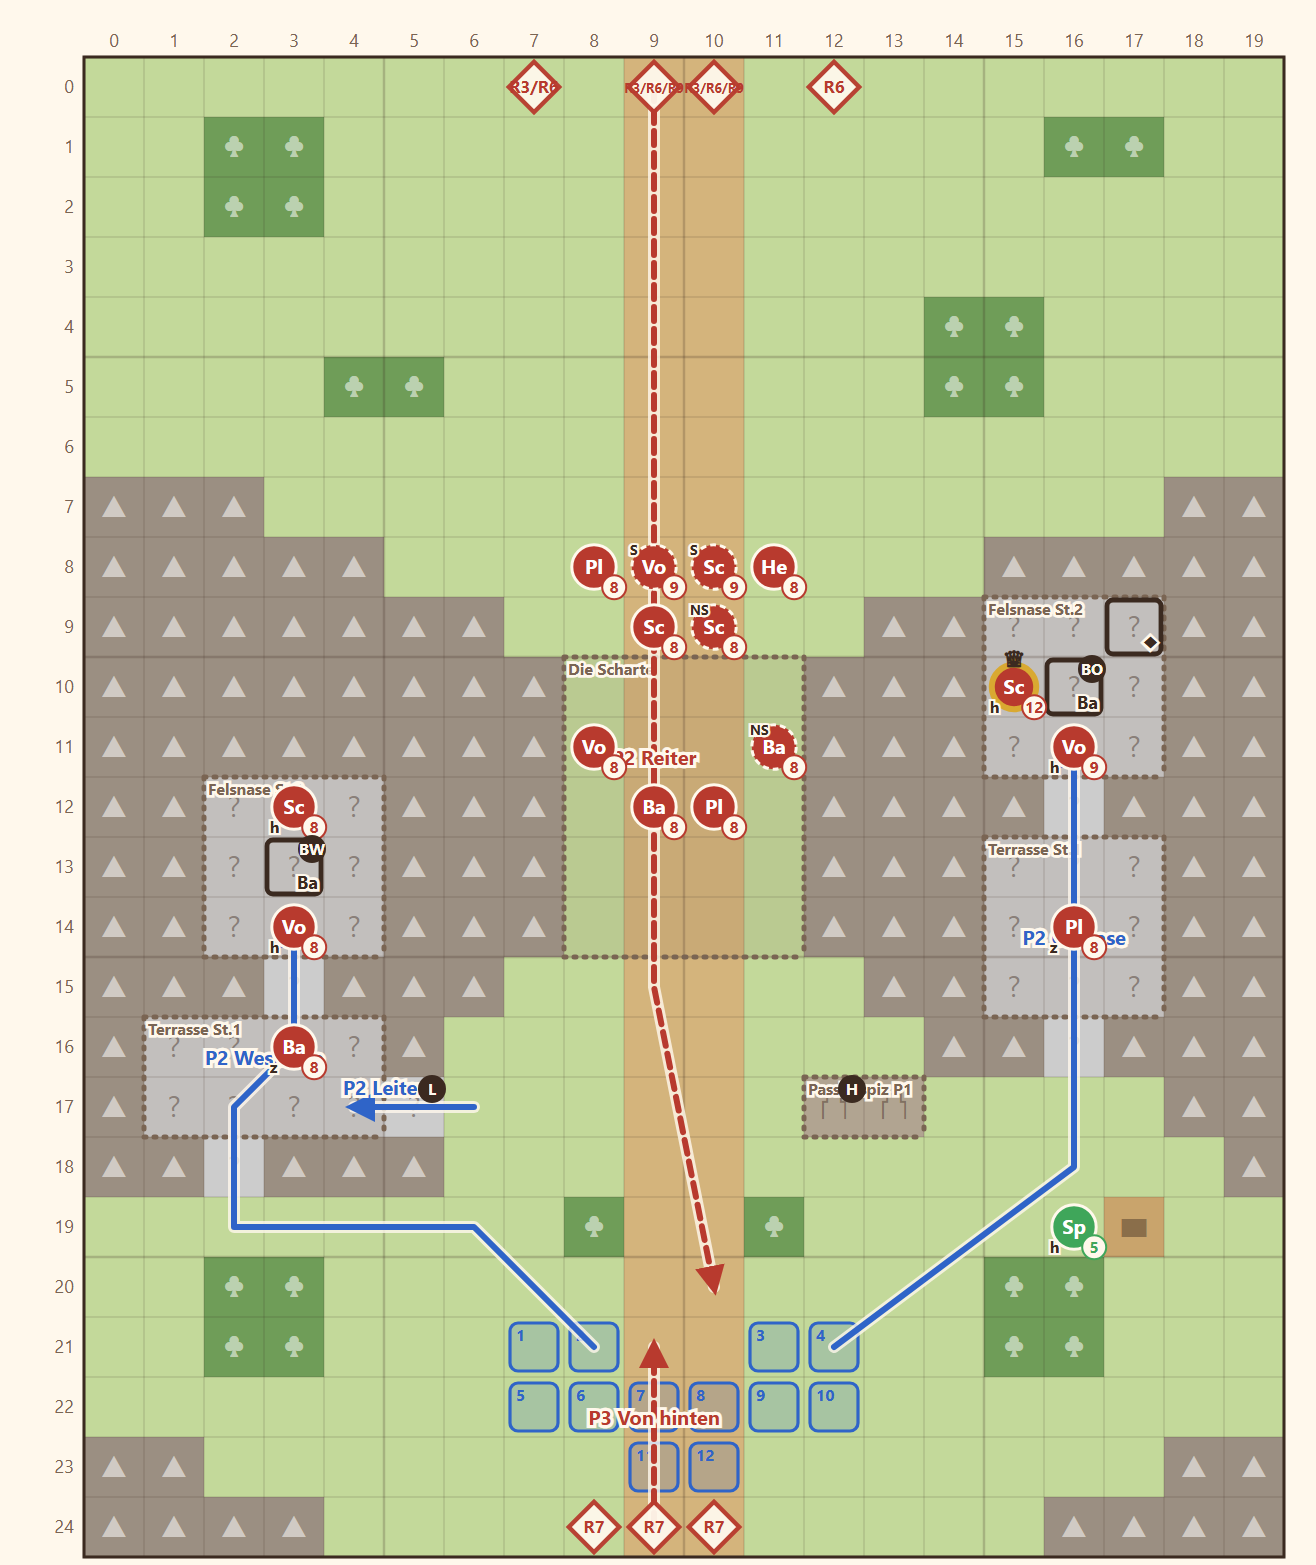
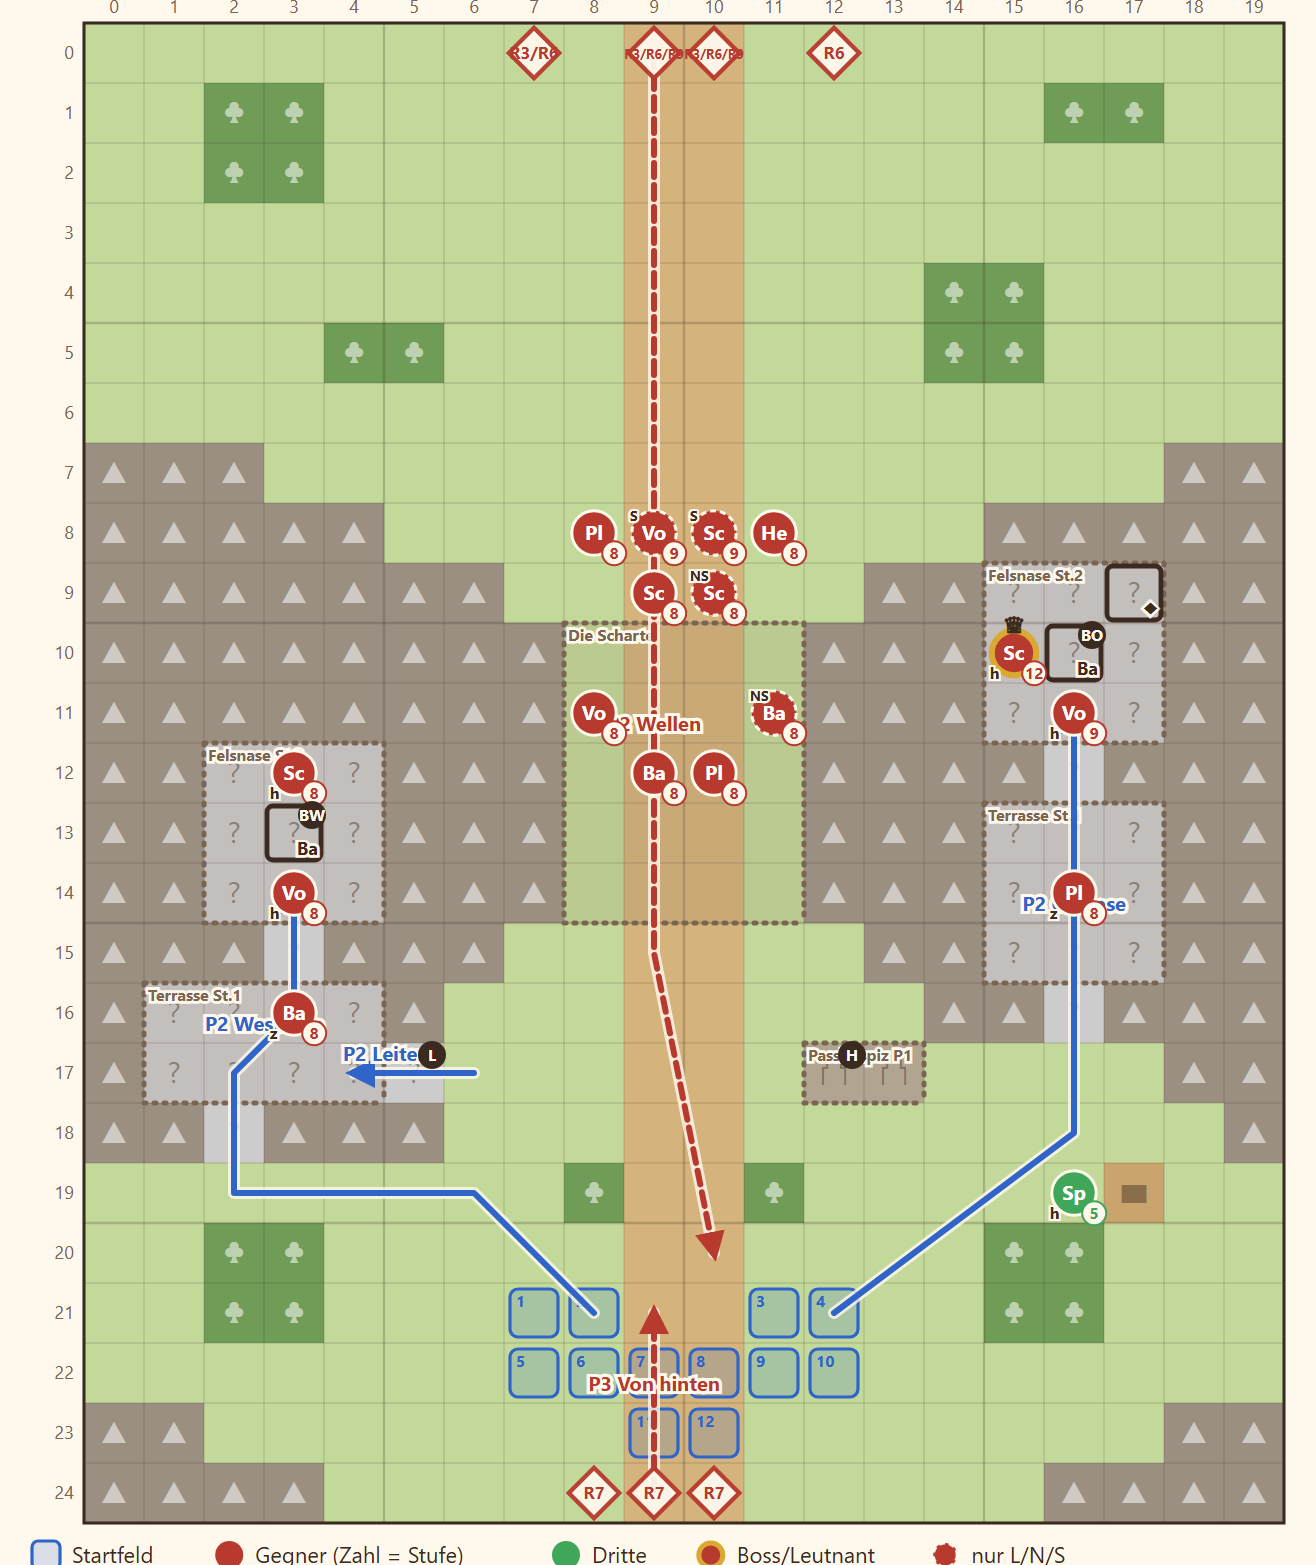
No horses on the board: foot soldiers instead of riders in 2-1, 2-3 and 2-8

diff --git a/concept/21-gdd/decision-log.md b/concept/21-gdd/decision-log.md
@@ -119,6 +119,7 @@
 | 2026-11-05 | **Höhenstufen, entschieden:** Flieger brauchen keine Stufenverbindung und wechseln frei; die Nahkampf-Stufenregel gilt für keinen Kampf, an dem ein Flieger beteiligt ist: Er schlägt über jeden Stufenunterschied, Bodenfiguren treffen ihn ebenso, auch beim Konter. „Nur zu Fuß“ heißt Bewegungstyp `foot`: Gepanzerte und Monster kommen die Leiter nicht hoch. Stäbe, Gegenstände, Bergen und Stehlen bleiben ohne Stufenregel. Das Tor öffnet wie die Tür auch der Späher ohne Schlüssel. Den Hebel ziehen nur Spielerfiguren, einmalig. Wehrgänge in 1-6 und 1-8 kommen in einer eigenen Runde nach dem Merge. | Produktinhaber |
 | 2026-11-05 | **Höhenstufen, die übrigen Annahmen bestätigt:** Die Treppe kostet Gepanzerte und Monster 2. Eine Waffe zählt als Fernkampf ab Reichweite 2, Kampf zwischen Nachbarn als Nahkampf, auch mit Reichweite 1–2. +1 Reichweite gilt von jeder höheren Stufe auf jede tiefere, nicht gestuft. Von unten nach oben schießt man normal, Sichtlinien gibt es weiter nicht. Wirken und Tauschen zwischen Nachbarn bleiben ohne Stufenregel. Ein Stoß trägt über keine Stufe. `set_terrain` lässt ein Feld unverändert, solange dort jemand steht, der auf dem neuen Gelände nicht stehen könnte. Die Gefahrenzone zeigt auf leeren Feldern, was Bodenfiguren droht; für den gewählten Flieger warnt die Zielfeldprüfung. Weiter Annahme [C]: Der Hebel wird vom Nachbarfeld gezogen. Die Stufe von Dach fehlt noch: Das Gelände kommt mit dem ersten Dachmodell | Produktinhaber |
 | 2026-11-04 | **Burg-Darstellung entschieden (Produktinhaber):** 3D statt Burgbild; neue abgeleitete Burgstufe aus der Summe der Raum-Ausbauten für Mauern und Land, ohne Regelwirkung und ohne eigenen Spielstand-Wert. (Abschnitt Heimat, Art Direction §7) | Produktinhaber |
-| 2026-11-05 | **Reiterei in Akt 2 nur beim Gegner:** Akt-2-Fokus ist Reiterei zu Pferd und Balliste statt Flieger und Balliste. Reiter sind eine neue generische Gegnerklasse (`cavalier`, Bewegungstyp `mounted`); die Truppe bleibt in Staffel 1 zu Fuß. `gdd.md` (Missionsfolge, Gegner pro Akt) ist noch nachzuziehen | Produktinhaber |
+| 2026-11-05 | **[abgelöst, siehe unten: keine Pferde auf dem Brett]** **Reiterei in Akt 2 nur beim Gegner:** Akt-2-Fokus ist Reiterei zu Pferd und Balliste statt Flieger und Balliste. Reiter sind eine neue generische Gegnerklasse (`cavalier`, Bewegungstyp `mounted`); die Truppe bleibt in Staffel 1 zu Fuß. `gdd.md` (Missionsfolge, Gegner pro Akt) ist noch nachzuziehen | Produktinhaber |
 | 2026-11-05 | **Gegnerstufen in Akt 2:** Positionsstufe P bleibt (Epic 11), aber mit negativen Abständen wegen „mehr, aber schwächere Gegner“: Start P−3, Wellen P−2, Elite P−1, Leutnants P+1, Boss P+2. `levelOffset` erweitert sich damit auf −3 bis +2 (Formatwunsch; Epic 11 sagt noch 0 bis +2). Werte per `pnpm sim` abzustimmen | Produktinhaber |
 | 2026-11-05 | **Asche in 2-4:** Die Brandschneise behält Wetter `ash` als Ausnahme nur für diese Karte, wie Schnee in N4; sonst bleibt `ash` in Akt 2 gesperrt | Produktinhaber |
+| 2026-11-05 | **Keine Pferde auf dem Brett (löst „Reiterei nur beim Gegner“ ab):** Staffel 1 hat keine Reiter, auch keine Gegner; Rowena kämpft zu Fuß, Pferde in 2-3 nur als Kulisse. Akt-2-Entwürfe 2-1, 2-3, 2-8 mit Fußtruppen statt `cavalier`. Akt-2-Schwerpunkt ist allein die Balliste | Produktinhaber |

diff --git a/concept/27-ueberarbeitung/levels/abnahme/s2_2_3_rabenweide.md b/concept/27-ueberarbeitung/levels/abnahme/s2_2_3_rabenweide.md
@@ -2,10 +2,10 @@
 
 **Kurz:** M 22×26 · Mittag · Boss Rowena · 9 eigene gegen 24 (2,7 : 1) · Beitritt **Ilka**
 
-- Die Truppe kommt im Süden über **offene Weiden**. Dort sind die Reiter schnell, Rücken und Flanken sind ungedeckt (Runde 3 von Osten, Runde 5 von Westen).
-- Die **Aure** hat drei Furten und keine Brücke. In der Furt zahlt ein Reiter 4 Bewegung, hier bricht der Ansturm.
-- Nördlich liegen die **Koppeln**: Zäune sperren alle Figuren, die Lücken sind Engstellen für Vorkämpfer. Reiter warten darin, bis jemand nah kommt.
-- **Rowena** hält den Gestütshof mit Rittern und gibt nach ihrer Niederlage auf. Sie lässt einen verwundeten Gefährten versorgen.
+- Die Truppe kommt im Süden über **offene Weiden**. Dort gibt es keine Deckung, Rücken und Flanken sind offen (Runde 3 von Osten, Runde 5 von Westen).
+- Die **Aure** hat drei Furten und keine Brücke. Die Furten kosten Bewegung und sind die Engstellen.
+- Nördlich liegen die **Koppeln**: Zäune sperren alle Figuren, die Lücken sind Engstellen für Vorkämpfer. Lanzen warten darin, bis jemand nah kommt; die Pferde sind nur Kulisse.
+- **Rowena** kämpft zu Fuß und hält den Gestütshof mit Rittern und gibt nach ihrer Niederlage auf. Sie lässt einen verwundeten Gefährten versorgen.
 - **Ilka** steht im Wald am Nordostufer. Wer sie anspricht, gewinnt sie.
 
 ![Raster](s2_2_3_rabenweide.png)
@@ -18,7 +18,7 @@
 | Aufstellung | 9 von 12 Feldern, Pflicht Rhen und Kael |
 | Nebenziele | Ilka gewinnen · beide Ställe besuchen |
 | Phasen | R1–4 Weide · R5–7 Furten · R8–12 Gestütshof |
-| Formatwünsche | Klasse `cavalier`, Leutnant `rowena`, Modelle Koppel, Stall, Gestüt |
+| Formatwünsche | Leutnant `rowena`, Modelle Koppel, Stall, Gestüt |
 | Datei | `levels/s2_2_3_rabenweide.yaml` |
 
 </details>

diff --git a/concept/27-ueberarbeitung/levels/abnahme/s2_2_1_windscharte.md b/concept/27-ueberarbeitung/levels/abnahme/s2_2_1_windscharte.md
@@ -4,7 +4,7 @@
 
 - Die Truppe kommt von Süden. Die **Windscharte** ist vier Felder breit, darüber zwei **Felsnasen mit Ballisten**.
 - **Balliste:** Wer oben steht, dreht sie um. Hinauf geht es über Rampe und Treppe, im Westen auch über eine Leiter (nur zu Fuß).
-- **Reiter** kommen in Runde 3, 6 und 9 über die Ebene. In Runde 7 kommen **Söldner von hinten**.
+- **Söldnerwellen** kommen in Runde 3, 6 und 9 über die Ebene. In Runde 7 kommen **Söldner von hinten**.
 - **Jory** steckt am Gauklerwagen fest, in Reichweite der Ostballiste. Das **Passhospiz** heilt, liegt aber ebenfalls im Schussfeld.
 - Runde 8 **Drachenschatten**, nach Runde 10 bieten Seraphine und Dravn den Freispruch an.
 
@@ -17,8 +17,8 @@
 | Gegner | L 20 · N 24 · S 28, Stufe P−3 bis P−1 (hier 8–10), Leutnants P+1 bis P+2 |
 | Aufstellung | 9 von 12 Feldern, Pflicht Rhen und Kael |
 | Nebenziele | Jory anwerben · Brakkas Soldtruhe auf der Ostnase |
-| Phasen | R1–3 Kessel · R4–6 Reiter und Sturm auf die Nasen · R7–10 Falle |
-| Formatwünsche | Klasse `cavalier`, Regel Balliste (fehlt in `src/core`), Leutnant `brakka` |
+| Phasen | R1–3 Kessel · R4–6 Wellen und Sturm auf die Nasen · R7–10 Falle |
+| Formatwünsche | Regel Balliste (fehlt in `src/core`), Leutnant `brakka` |
 | Datei | `levels/s2_2_1_windscharte.yaml` |
 
 </details>

diff --git a/concept/27-ueberarbeitung/levels/abnahme/s2_2_8_kronfeld.md b/concept/27-ueberarbeitung/levels/abnahme/s2_2_8_kronfeld.md
@@ -5,7 +5,7 @@
 - Der **neutrale Treffpunkt** ist die Falle: Die Truppe steht auf dem Hügel in der Mitte, die vier Mächte kommen von allen Seiten.
 - **Überleben, dann ausbrechen:** Das Brückentor ist zu. In **Runde 6 zögert Rowena**, das Tor geht auf, und ihre Leute halten still.
 - Wer früher weg will, muss zur **Furt** im Osten. Sie ist weit und wird ab Runde 9 von Lanzen gesperrt.
-- **Brakkas Balliste** steht auf dem Osthügel und reicht bis zum Treffpunkt. Reiterwellen kommen in Runde 3 und 5 über die Ebene.
+- **Brakkas Balliste** steht auf dem Osthügel und reicht bis zum Treffpunkt. Wellen kommen in Runde 3 und 5 über die Ebene.
 - Hat Sable bei E7 gewechselt, führt im Süden der Hauptmann.
 
 ![Raster](s2_2_8_kronfeld.png)
@@ -19,7 +19,7 @@
 | Sieg | 6 Figuren aufs Nordufer (Vorschlag, per `pnpm sim` prüfen) |
 | Nebenziele | niemand fällt · binnen 14 Runden |
 | Phasen | R1–5 überleben · R6–9 das Tor · R10–15 Ausbruch |
-| Formatwünsche | Klasse `cavalier`, Regel Balliste, Modelle Zelt, Boden Herbst |
+| Formatwünsche | Regel Balliste, Modelle Zelt, Boden Herbst |
 | Datei | `levels/s2_2_8_kronfeld.yaml` |
 
 </details>
